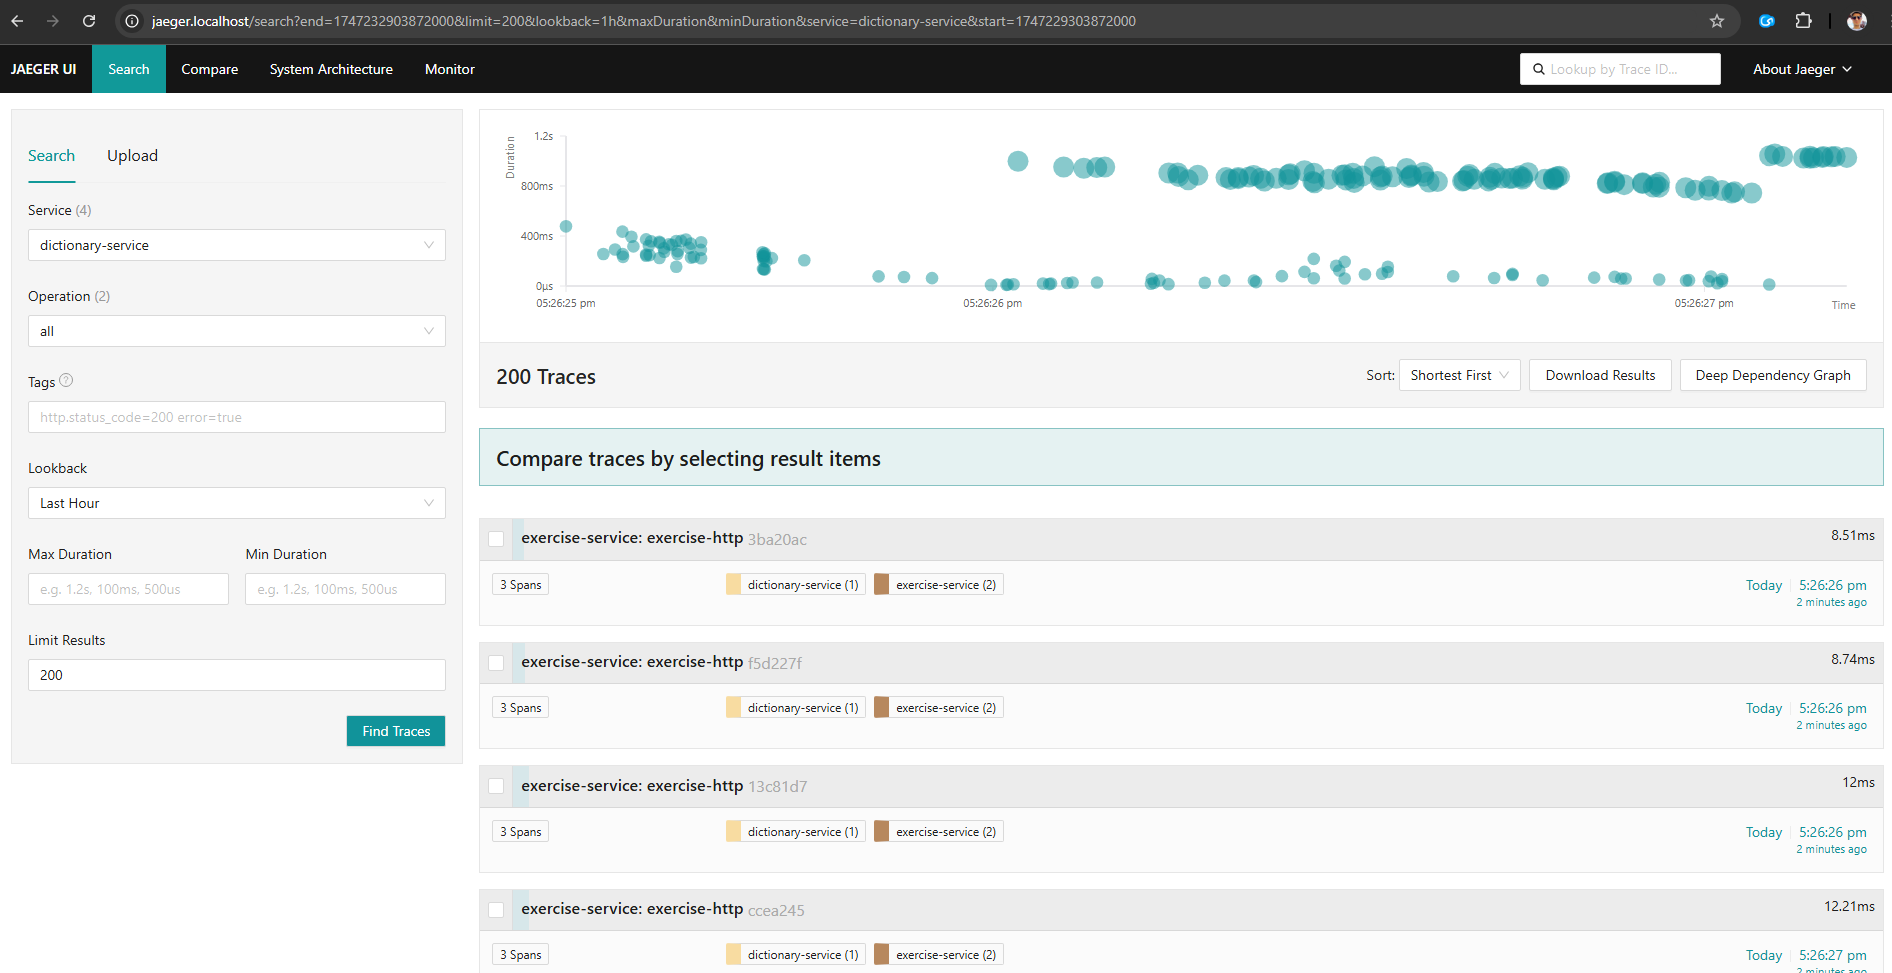
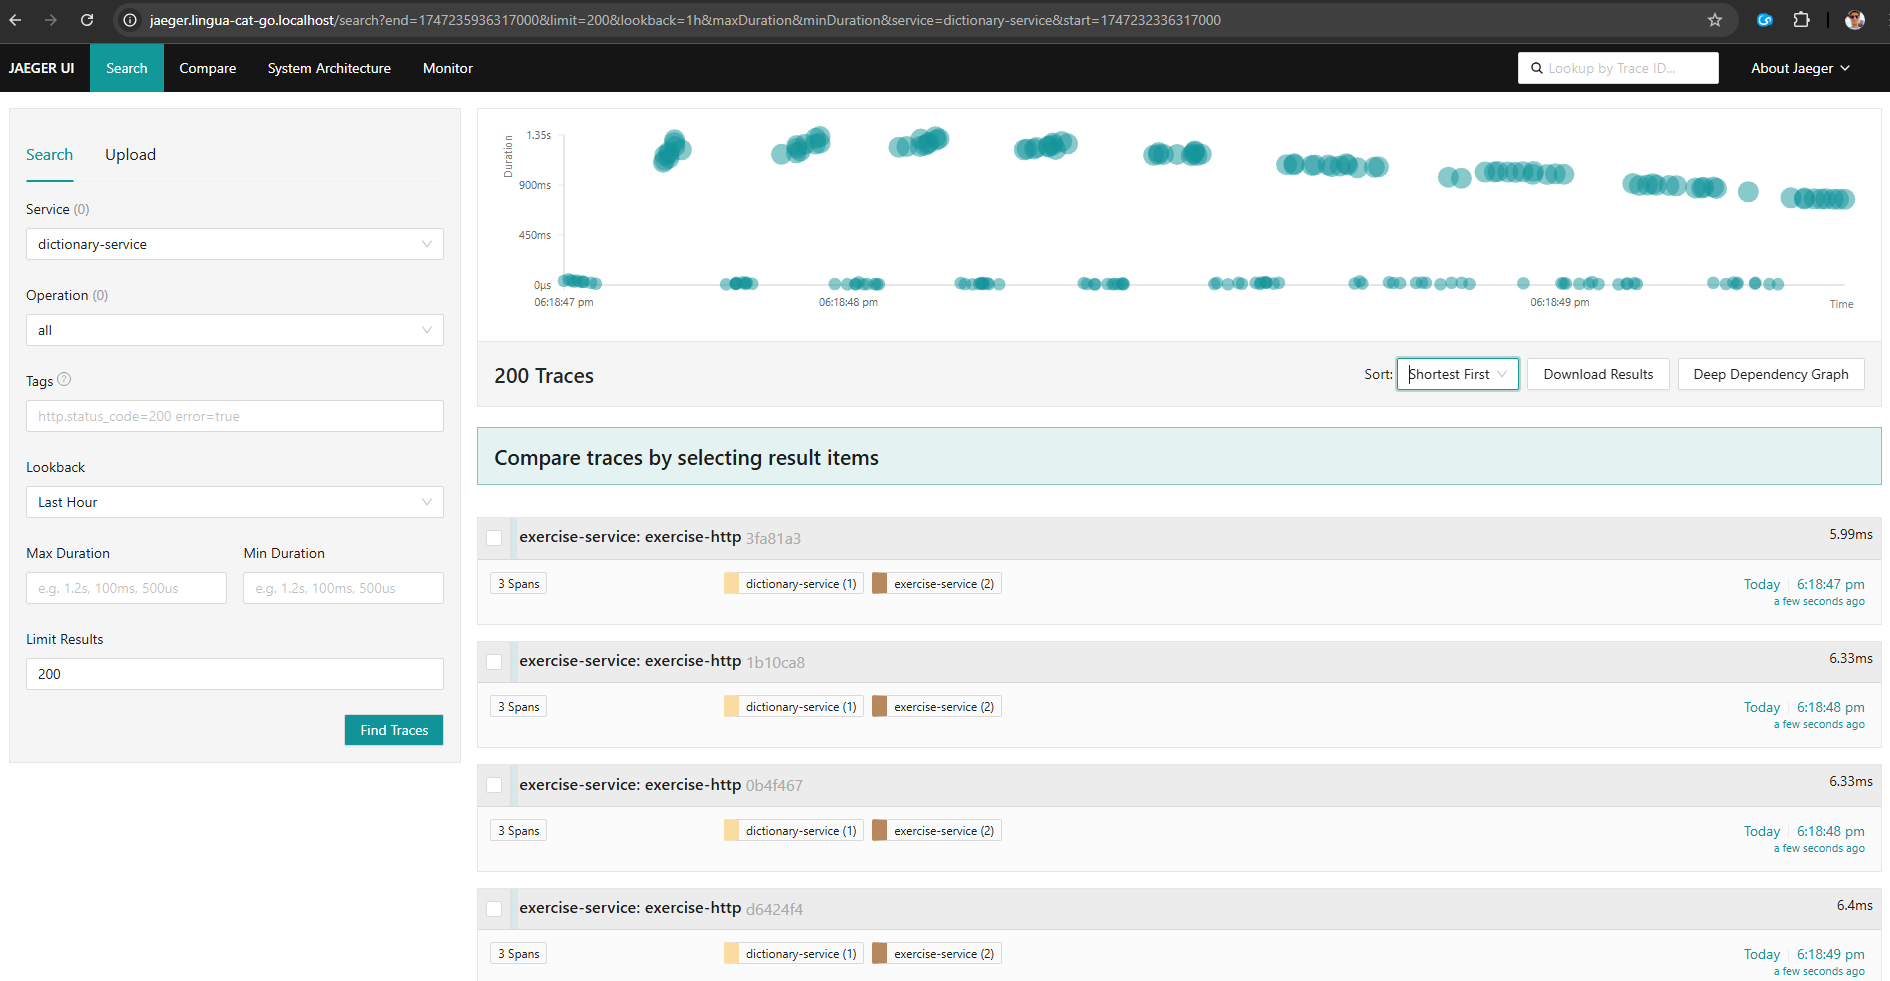
main

diff --git a/backend/analytics/cmd/main.go b/backend/analytics/cmd/main.go
@@ -22,7 +22,7 @@ import (
 // @name Authorization
 // @description Для авторизации используйте Bearer токен, полученный от Keycloak:
 // @description 1. Получите access_token:
-// @description    curl -X POST http://keycloak.localhost/realms/lingua-cat-go/protocol/openid-connect/token -H "Content-Type: application/x-www-form-urlencoded" -d 'grant_type=password&scope=openid&client_id=lingua-cat-go-dev&client_secret=GatPbS9gsEfplvCpiNitwBdmIRc0QqyQ&username=username&password=password'
+// @description    curl -X POST http://keycloak.lingua-cat-go.localhost/realms/lingua-cat-go/protocol/openid-connect/token -H "Content-Type: application/x-www-form-urlencoded" -d 'grant_type=password&scope=openid&client_id=lingua-cat-go-dev&client_secret=GatPbS9gsEfplvCpiNitwBdmIRc0QqyQ&username=username&password=password'
 // @description 2. Используйте access_token в заголовке Authorization: Bearer <token>
 func main() {
 	// Инициализация приложения с помощью Wire

diff --git a/backend/dictionary/cmd/main.go b/backend/dictionary/cmd/main.go
@@ -23,7 +23,7 @@ import (
 // @name Authorization
 // @description Для авторизации используйте Bearer токен, полученный от Keycloak:
 // @description 1. Получите access_token:
-// @description    curl -X POST http://keycloak.localhost/realms/lingua-cat-go/protocol/openid-connect/token -H "Content-Type: application/x-www-form-urlencoded" -d 'grant_type=password&scope=openid&client_id=lingua-cat-go-dev&client_secret=GatPbS9gsEfplvCpiNitwBdmIRc0QqyQ&username=username&password=password'
+// @description    curl -X POST http://keycloak.lingua-cat-go.localhost/realms/lingua-cat-go/protocol/openid-connect/token -H "Content-Type: application/x-www-form-urlencoded" -d 'grant_type=password&scope=openid&client_id=lingua-cat-go-dev&client_secret=GatPbS9gsEfplvCpiNitwBdmIRc0QqyQ&username=username&password=password'
 // @description 2. Используйте access_token в заголовке Authorization: Bearer <token>
 func main() {
 	// Инициализация приложения с помощью Wire

diff --git a/backend/exercise/cmd/main.go b/backend/exercise/cmd/main.go
@@ -22,7 +22,7 @@ import (
 // @name Authorization
 // @description Для авторизации используйте Bearer токен, полученный от Keycloak:
 // @description 1. Получите access_token:
-// @description    curl -X POST http://keycloak.localhost/realms/lingua-cat-go/protocol/openid-connect/token -H "Content-Type: application/x-www-form-urlencoded" -d 'grant_type=password&scope=openid&client_id=lingua-cat-go-dev&client_secret=GatPbS9gsEfplvCpiNitwBdmIRc0QqyQ&username=username&password=password'
+// @description    curl -X POST http://keycloak.lingua-cat-go.localhost/realms/lingua-cat-go/protocol/openid-connect/token -H "Content-Type: application/x-www-form-urlencoded" -d 'grant_type=password&scope=openid&client_id=lingua-cat-go-dev&client_secret=GatPbS9gsEfplvCpiNitwBdmIRc0QqyQ&username=username&password=password'
 // @description 2. Используйте access_token в заголовке Authorization: Bearer <token>
 func main() {
 	// Инициализация приложения с помощью Wire

diff --git a/README.md b/README.md
@@ -222,8 +222,9 @@ make init
 3. Открыть в браузере:
 
   * **Swagger UI**: `http://swagger.lingua-cat-go.localhost/`
-  * **Jaeger UI**: `http://jaeger.localhost/`
-  * **Keycloak**: `http://keycloak.localhost/` (логин/пароль по умолчанию: `admin/admin`)
+  * **Jaeger UI**: `http://jaeger.lingua-cat-go.localhost/`
+  * **Kafka UI**: `http://kafka-ui.lingua-cat-go.localhost/`
+  * **Keycloak**: `http://keycloak.lingua-cat-go.localhost/` (логин/пароль по умолчанию: `admin/admin`)
   * **Dictionary API**: `http://api.lingua-cat-go.localhost/dictionary/`
   * **Exercise API**: `http://api.lingua-cat-go.localhost/exercise/`
   * **Analytics API**: `http://api.lingua-cat-go.localhost/analytics/`
@@ -232,7 +233,7 @@ make init
 
 Получение JWT-токена для встроенного dummy-user:
 ```bash
-curl -X POST --location "http://keycloak.localhost/realms/lingua-cat-go/protocol/openid-connect/token" \
+curl -X POST --location "http://keycloak.lingua-cat-go.localhost/realms/lingua-cat-go/protocol/openid-connect/token" \
     -H "Content-Type: application/x-www-form-urlencoded" \
     -H "Accept: application/json" \
     -d 'grant_type=password&scope=openid&client_id=lingua-cat-go-dev&client_secret=GatPbS9gsEfplvCpiNitwBdmIRc0QqyQ&username=dummy-user&password=password'
@@ -268,7 +269,7 @@ make swagger-analytics
 
 ## Jaeger
 
-Jaeger UI доступен по адресу `http://jaeger.localhost/`.
+Jaeger UI доступен по адресу `http://jaeger.lingua-cat-go.localhost/`.
 
 ![Jaeger UI](project/jaeger.png)
 
